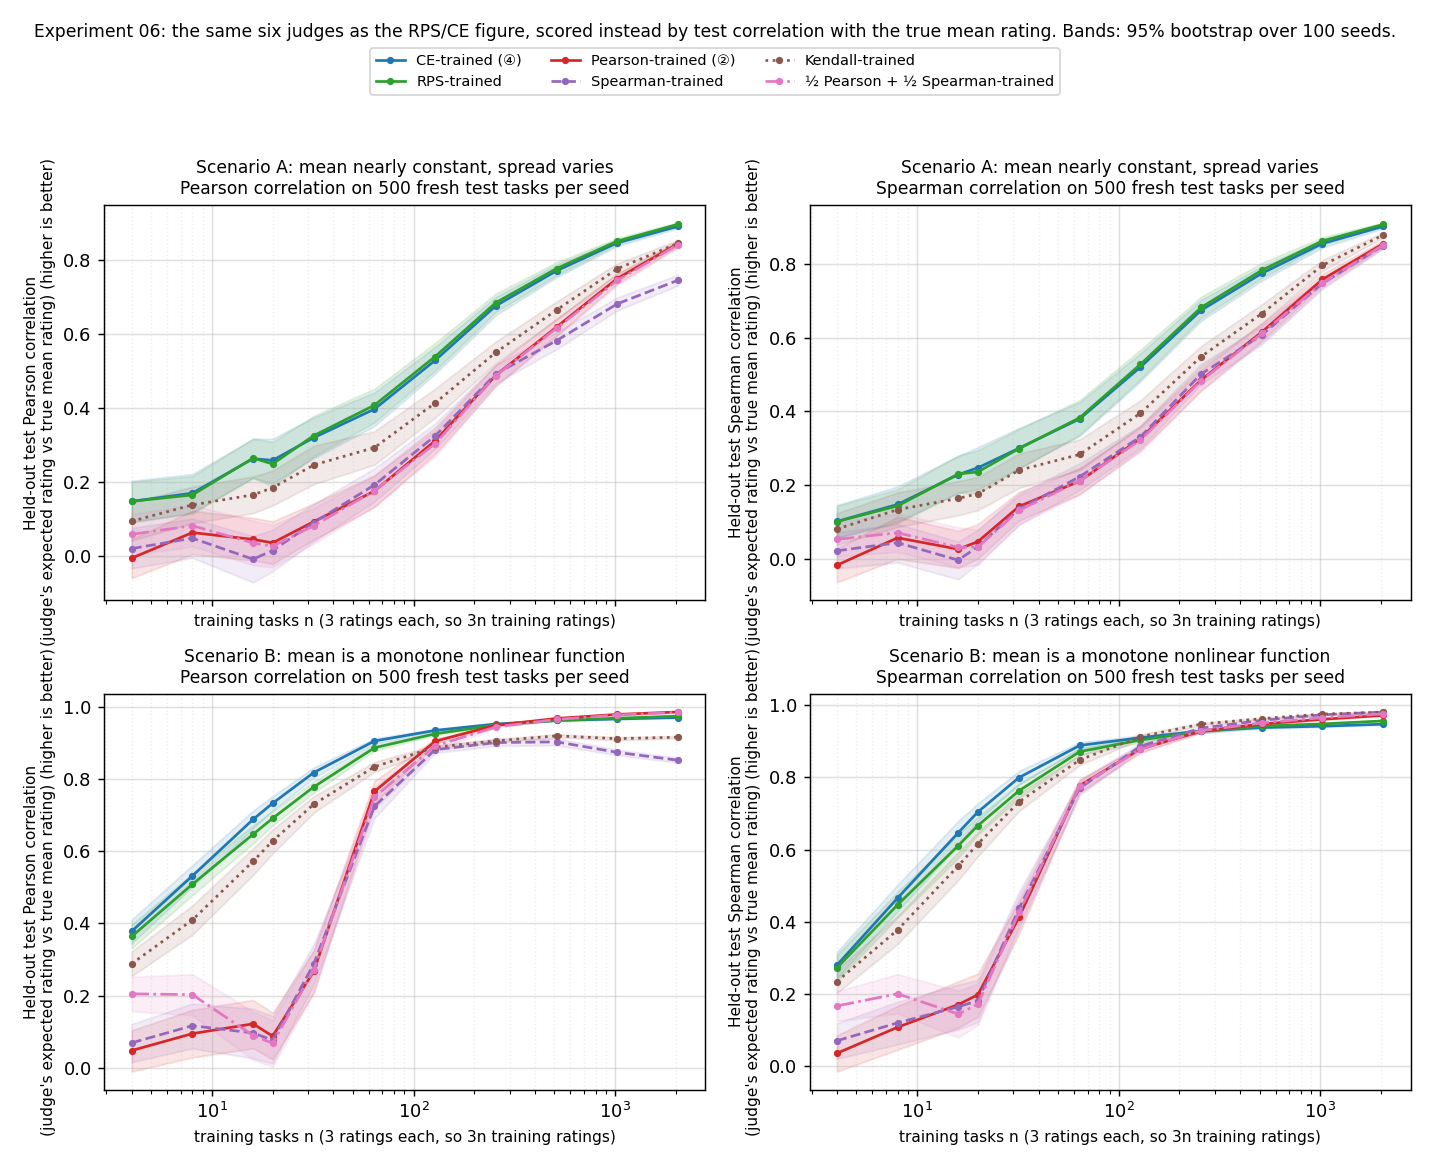
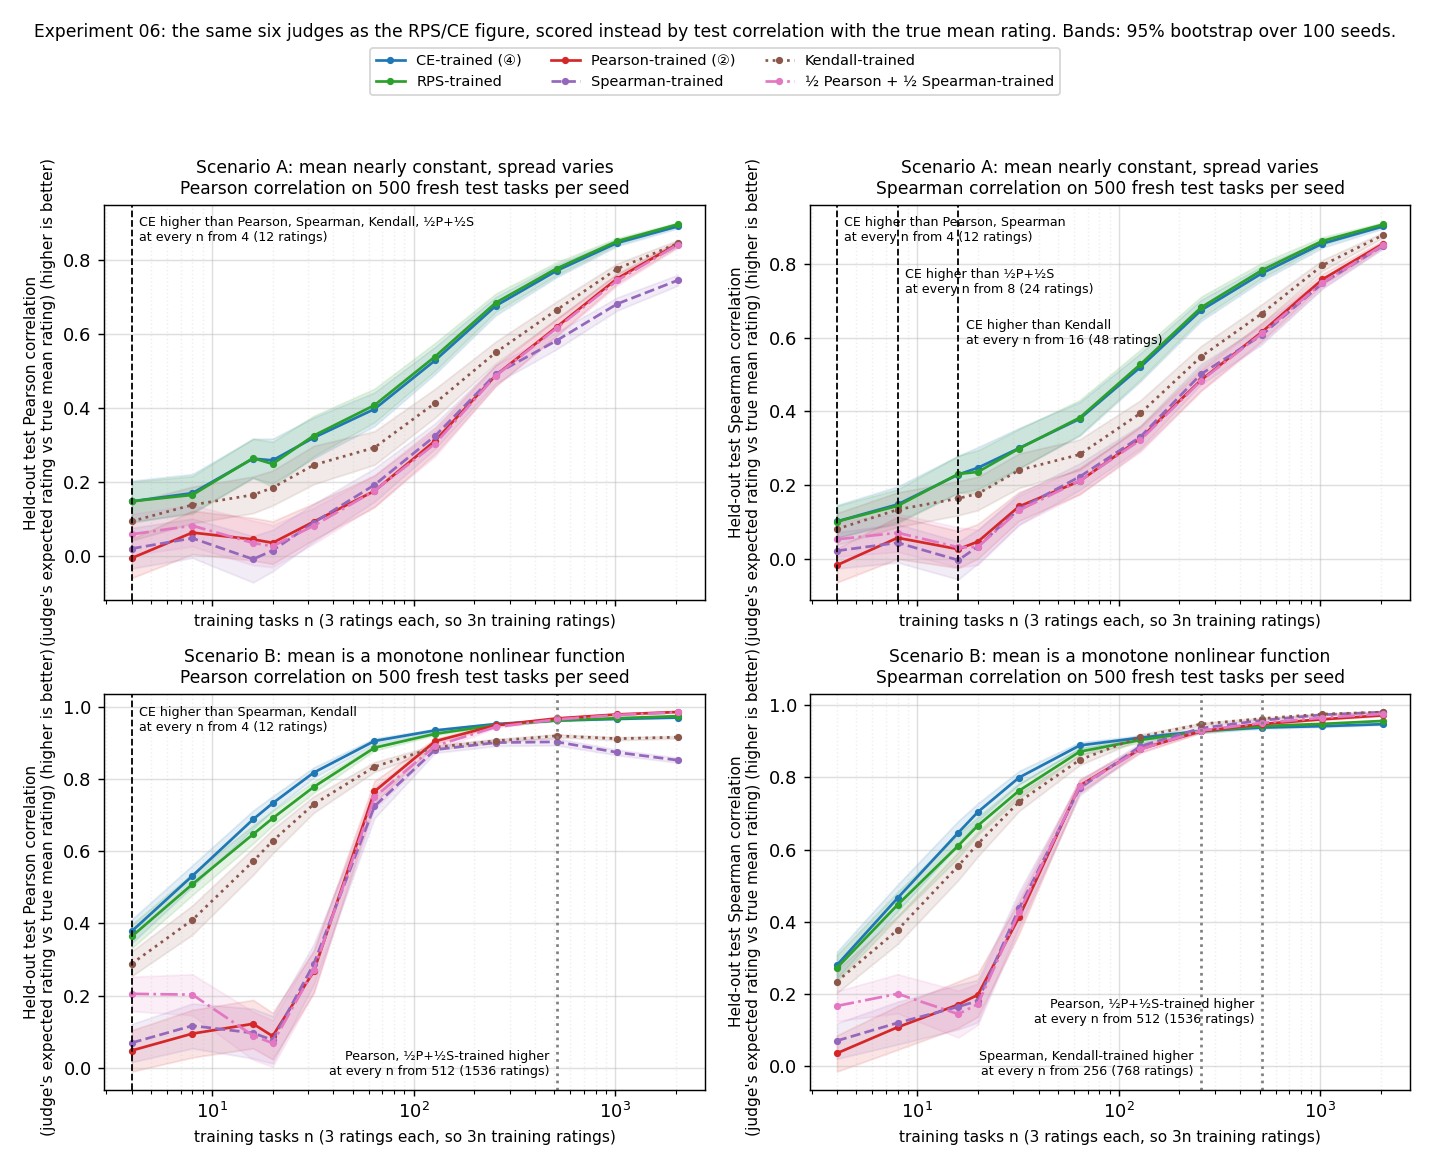
Exp 08 amendment: fall back to c = 1 when validation correlation is undefined; exp 06 Figure 6 lines
Experiment 08's first launch crashed when every candidate ridge had an
undefined validation Pearson; record the fallback rule before analysis.
Experiment 06: data-needed lines on the test-correlation figure, drawn
from a separate bootstrap stream so committed tables are unchanged.

diff --git a/experiments/06_toy_rank_and_mixed_correlation_objectives_vs_ce_start_13Nov2026/scripts/make_report.py b/experiments/06_toy_rank_and_mixed_correlation_objectives_vs_ce_start_13Nov2026/scripts/make_report.py
@@ -44,6 +44,14 @@ def vals(sc, n, fit, met):
     return np.array([c[s][fit][met] for s in sorted(c)])
 
 
+rng_lines = np.random.default_rng(1)  # separate stream so drawing figure lines never shifts the table intervals
+
+
+def mean_ci_lines(v, draws=10000):
+    boot = v[rng_lines.integers(0, len(v), (draws, len(v)))].mean(1)
+    return v.mean(), np.percentile(boot, 2.5), np.percentile(boot, 97.5)
+
+
 def mean_ci(v, draws=10000):
     boot = v[rng.integers(0, len(v), (draws, len(v)))].mean(1)
     return v.mean(), np.percentile(boot, 2.5), np.percentile(boot, 97.5)
@@ -92,6 +100,30 @@ for i, sc in enumerate("AB"):
             ax.fill_between(NS, ms[:, 1], ms[:, 2], color=COL[fit], alpha=0.12)
         ax.set_xscale("log")
         ax.grid(True, which="major", alpha=0.4); ax.grid(True, which="minor", ls=":", alpha=0.2)
+        # Data-needed lines on test correlation (paired 95% bootstrap over seeds, CE-trained minus each judge):
+        # dashed black = CE-trained significantly higher at every larger n; dotted gray = that correlation-trained
+        # judge significantly higher at every larger n. Judges sharing an n share a line.
+        ce_from, corr_from = {}, {}
+        for comp, short in (("pearson", "Pearson"), ("spearman", "Spearman"), ("kendall", "Kendall"), ("pearson_spearman", "½P+½S")):
+            d = [mean_ci_lines(np.nan_to_num(vals(sc, n, "ce", met), nan=0.0) - np.nan_to_num(vals(sc, n, comp, met), nan=0.0)) for n in NS]
+            ce_b, co_b = [x[1] > 0 for x in d], [x[2] < 0 for x in d]
+            s1 = next((NS[k] for k in range(len(NS)) if all(ce_b[k:])), None)
+            s2 = next((NS[k] for k in range(len(NS)) if all(co_b[k:])), None)
+            if s1 is not None:
+                ce_from.setdefault(s1, []).append(short)
+            if s2 is not None:
+                corr_from.setdefault(s2, []).append(short)
+        k = 0
+        for start, names in sorted(ce_from.items()):
+            ax.axvline(start, color="black", ls="--", lw=1)
+            ax.annotate(f"CE higher than {', '.join(names)}\nat every n from {start} ({3 * start} ratings)", xy=(start, 0.97 - 0.13 * k),
+                        xycoords=("data", "axes fraction"), xytext=(4, 0), textcoords="offset points", fontsize=7, va="top")
+            k += 1
+        for start, names in sorted(corr_from.items()):
+            ax.axvline(start, color="gray", ls=":", lw=1.5)
+            ax.annotate(f"{', '.join(names)}-trained higher\nat every n from {start} ({3 * start} ratings)", xy=(start, 0.03 + 0.13 * (k - len(ce_from))),
+                        xycoords=("data", "axes fraction"), xytext=(-4, 0), textcoords="offset points", fontsize=7, va="bottom", ha="right")
+            k += 1
         ax.set_title(f"{SCEN[sc]}\n{'Pearson' if met == 'pearson' else 'Spearman'} correlation on 500 fresh test tasks per seed", fontsize=9.5)
         ax.set_ylabel(CORR[met] + " (higher is better)", fontsize=8.5)
         ax.set_xlabel("training tasks n (3 ratings each, so 3n training ratings)", fontsize=8.5)

diff --git a/experiments/08_toy_target_complexity_and_tuned_regularization_vs_ratings_needed_start_14Nov2026/scripts/complexity.py b/experiments/08_toy_target_complexity_and_tuned_regularization_vs_ratings_needed_start_14Nov2026/scripts/complexity.py
@@ -68,9 +68,16 @@ def val_scores(Phi, P, kind, c, fold, seed):
 
 
 def pick(cs, scores, lower_better):
-    """Best c; ties (within 1e-12) go to the larger c."""
-    best = min(scores) if lower_better else max(scores)
-    return max(c for c, s in zip(cs, scores) if abs(s - best) <= 1e-12)
+    """Best c among finite scores; ties (within 1e-12) go to the larger c. None if no score is finite.
+
+    Amendment (11-14-2026, found when the first launch crashed, before any analysis): with very few training tasks
+    every candidate can have an undefined validation correlation; the caller then falls back to c = 1 and flags it.
+    """
+    finite = [(c, s) for c, s in zip(cs, scores) if np.isfinite(s)]
+    if not finite:
+        return None
+    best = min(s for _, s in finite) if lower_better else max(s for _, s in finite)
+    return max(c for c, s in finite if abs(s - best) <= 1e-12)
 
 
 def run_one(args):
@@ -95,6 +102,8 @@ def run_one(args):
         if kind == "pearson":
             choices["valcorr"] = pick(C_GRID, [v[1] for v in vs], False)
         for name, c in choices.items():
+            fallback = c is None
+            c = 1.0 if fallback else c
             Wc = W if c == 1.0 else toy.fit(Phi, P, kind, n, W0, c=c)
-            out[f"{kind}_{name}"] = dict(test_metrics(softmax(Phit @ Wc, 1), Pt, xt, Qconst), c=c)
+            out[f"{kind}_{name}"] = dict(test_metrics(softmax(Phit @ Wc, 1), Pt, xt, Qconst), c=c, fallback=fallback)
     return sc, n, seed, out

diff --git a/experiments/08_toy_target_complexity_and_tuned_regularization_vs_ratings_needed_start_14Nov2026/README.md b/experiments/08_toy_target_complexity_and_tuned_regularization_vs_ratings_needed_start_14Nov2026/README.md
@@ -42,6 +42,10 @@
   Validation: 4-fold cross-validation over the training tasks, pooling out-of-fold predictions; c ∈ {0.01, 0.1, 1, 10, 100}; ties go to the larger c. Test data never enter any choice.
 - **Metrics (held-out test tasks, against the true distribution).** RPS excess and CE excess, KL(true ‖ judge), both lower is better; test Pearson and Spearman between the judge's expected rating and the true mean, higher is better; total variation distance between each judge's test forecasts and the constant forecast.
 
+## Amendment (11-14-2026, before any analysis)
+
+The first launch crashed after 208 rows: with very few training tasks, every candidate ridge can give an undefined validation Pearson correlation (all out-of-fold predictions constant, or identical training-task means). The rule now is that when no candidate has a defined validation correlation, `pearson_valcorr` uses experiment 13's c = 1 and the row records `fallback: true`. The 208 completed rows were unaffected and are kept; the runner resumes the rest.
+
 ## Run
 
 ```bash
